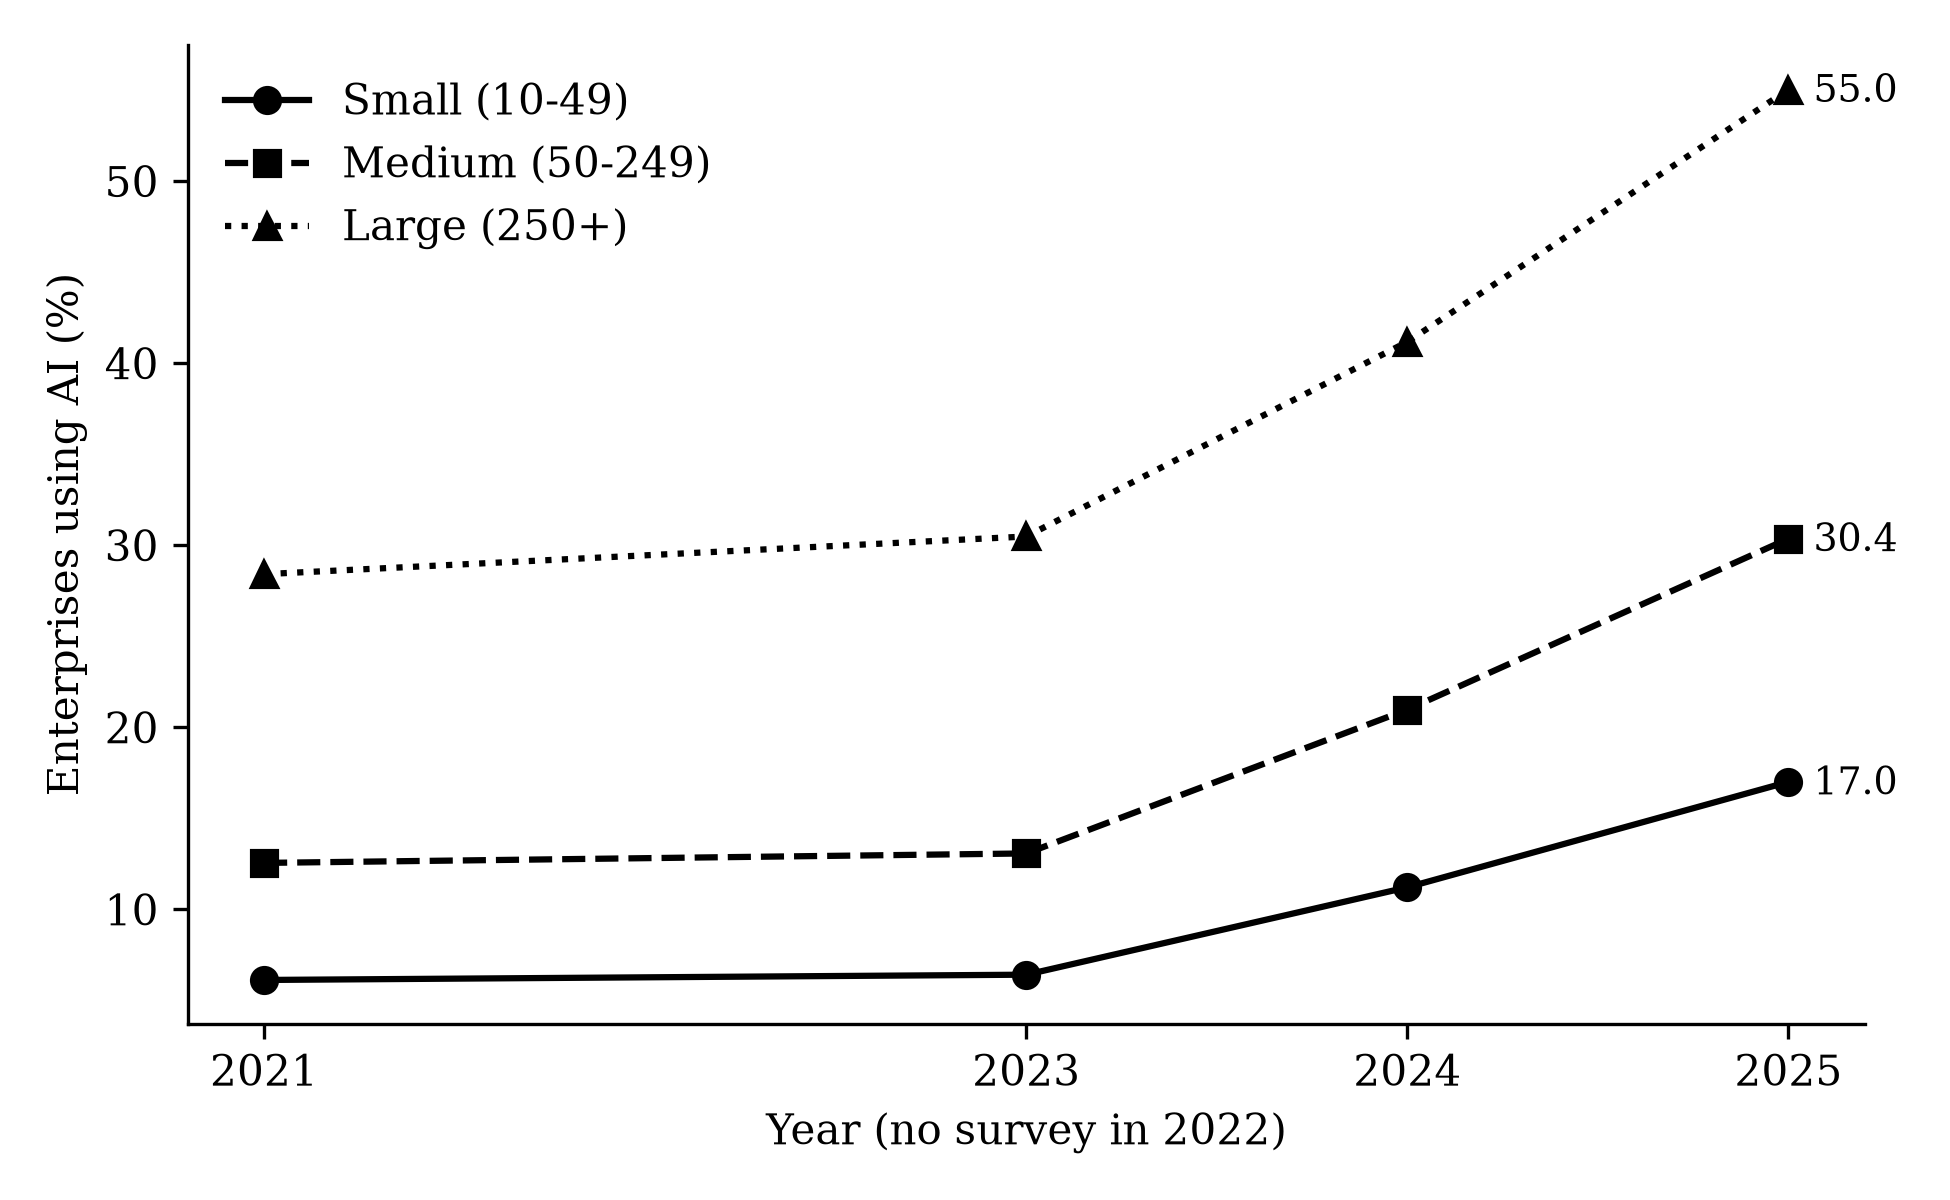
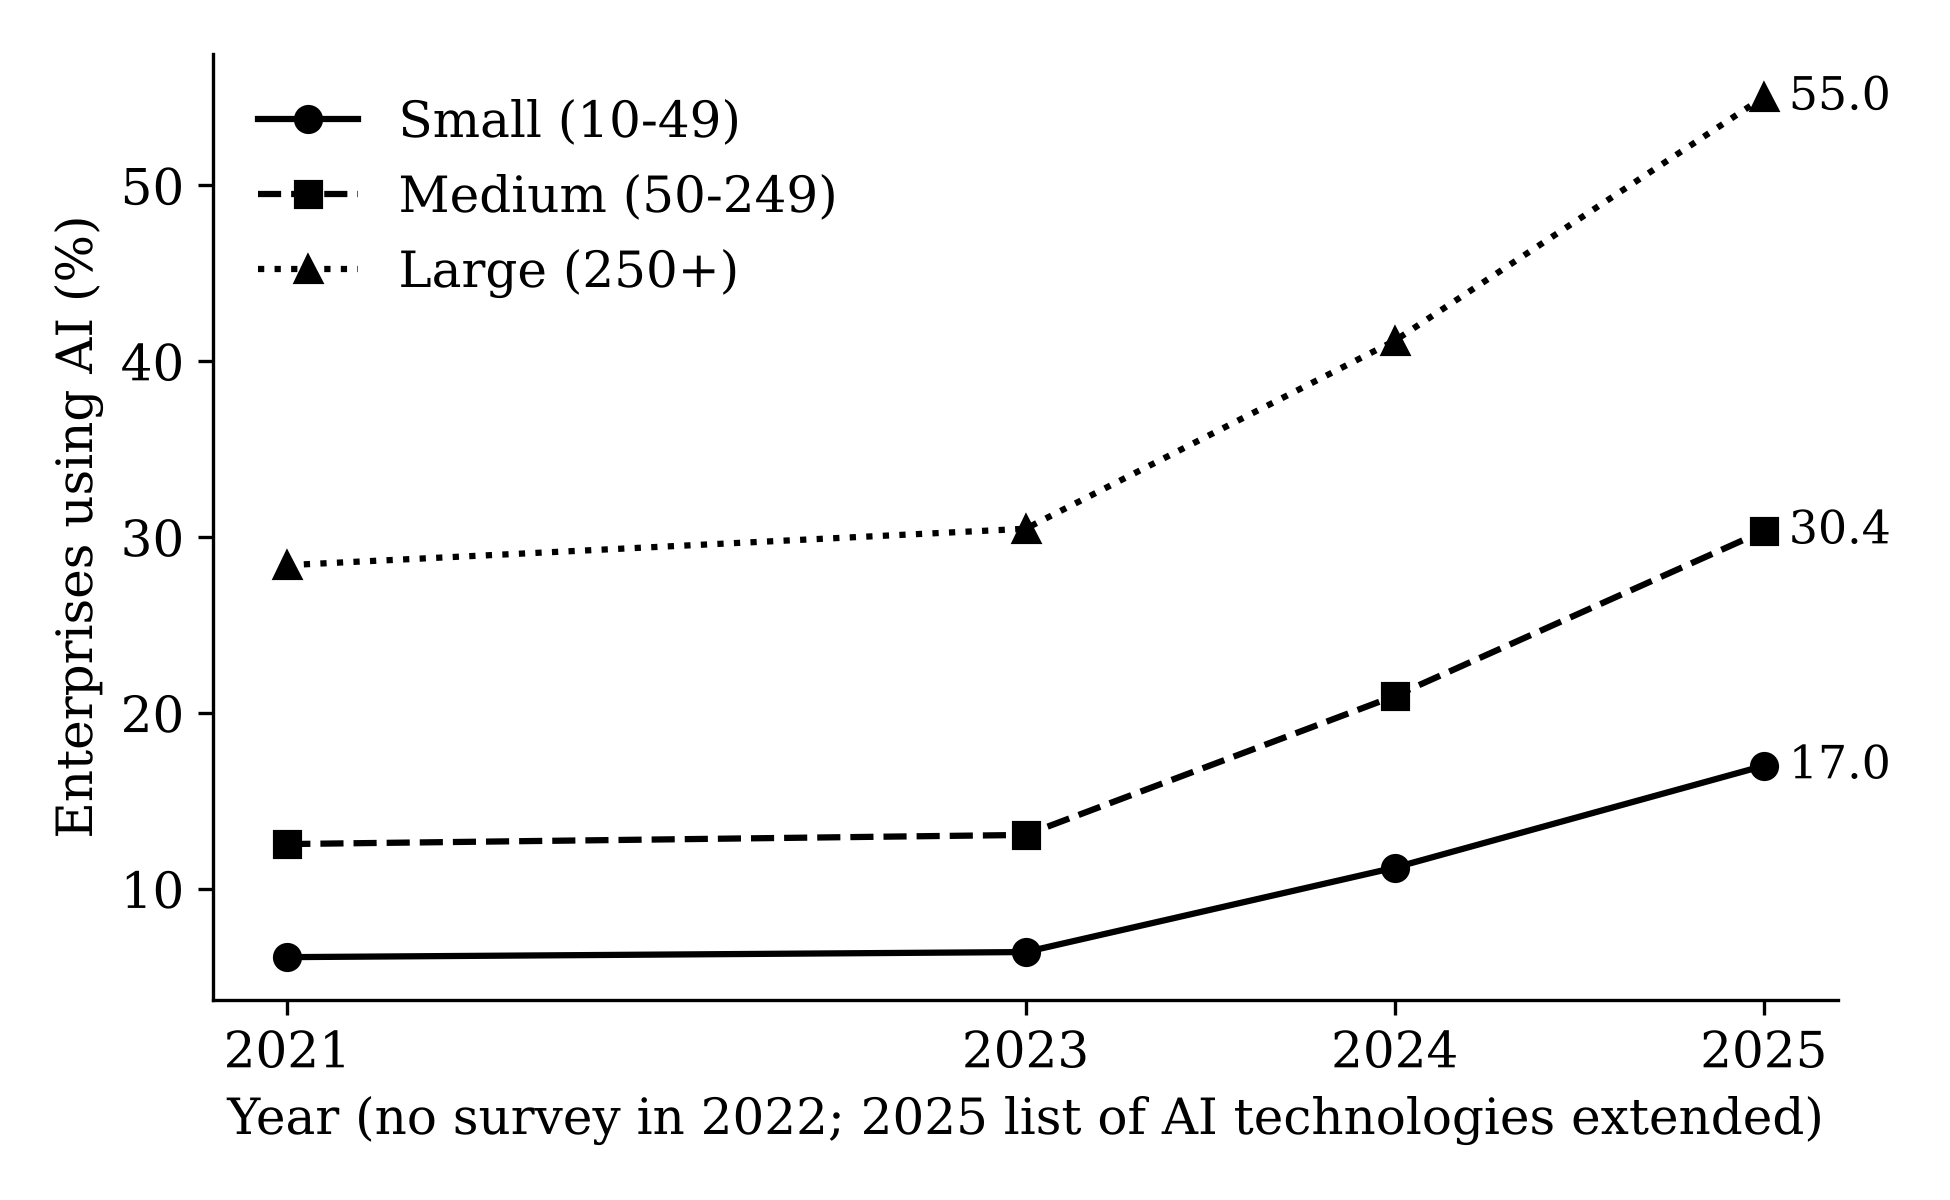
Add robustness check R7 and Portugal singleton check; larger figure fonts; update README

diff --git a/05_analysis/03_inference_checks.py b/05_analysis/03_inference_checks.py
@@ -8,7 +8,9 @@ Not part of the original protocol; reported as post-review checks.
 3. Wild cluster bootstrap p-values (restricted, Webb six-point weights,
    9,999 replications), suited to a small number of clusters.
 4. R3: model without the digital intensity control; R5: without GDP growth;
-   R6: no control variables (country and year fixed effects only).
+   R6: no control variables (country and year fixed effects only);
+   R7 (revision v8): excluding countries with SBS break flags in 2021 (FI, FR, PT, RO).
+6. Singleton check: Portugal large enterprises with and without its single observation.
 5. Leave-one-country-out: range of the AI coefficient when each country is dropped.
 
 Input : ../04_data_clean/panel_clean.csv
@@ -90,6 +92,8 @@ specs = {
     "R3: without digital intensity": (lambda d: d, ["gdp_growth"]),
     "R5: without GDP growth": (lambda d: d, ["dii_basic"]),
     "R6: no control variables": (lambda d: d, []),
+    # added in revision v8 (October 2026): SBS break-in-series flags in 2021
+    "R7: excluding FI, FR, PT and RO": (lambda d: d[~d["geo_code"].isin(["FI", "FR", "PT", "RO"])], ["dii_basic", "gdp_growth"]),
 }
 log("INFERENCE AND SENSITIVITY CHECKS (03_inference_checks.py)")
 log("=" * 70)
@@ -130,6 +134,17 @@ for y, ylab in OUTC.items():
             f"|t|>2.06 in {sig} of {len(coefs)} runs")
 pd.DataFrame(sens, columns=["Outcome", "Size class", "Min AI coefficient", "Max AI coefficient",
                             "Runs with |t| > 2.06", "Runs"]).to_csv(OUT / "table8_sensitivity.csv", index=False)
+
+log("\n--- Singleton check: Portugal, large enterprises (main specification) ---")
+for y, ylab in OUTC.items():
+    sub = p[p["size"] == "GE250"].dropna(subset=[y, "ai_use", "dii_basic", "gdp_growth"])
+    for label, d in [("countries with 2+ observations (as estimated)", sub[sub.groupby("geo_code")["year"].transform("count") >= 2]),
+                     ("including Portugal's single observation", sub)]:
+        X = pd.concat([d[["ai_use", "dii_basic", "gdp_growth"]],
+                       pd.get_dummies(d["geo_code"], dtype=float),
+                       pd.get_dummies(d["year"], drop_first=True, prefix="y", dtype=float)], axis=1).to_numpy(float)
+        b, se, _ = ols_cluster(X, d[y].to_numpy(float), pd.factorize(d["geo_code"])[0])
+        log(f"{ylab:<28} {label:<48} N={len(d)} b={b[0]:.6f} SE={se[0]:.6f}")
 
 log("\nNotes: p(t, G-1) uses the t distribution with G-1 degrees of freedom; "
     "wild bootstrap uses restricted residuals, Webb weights, 9,999 replications, seed 20261010.")

diff --git a/05_analysis/02_analysis.py b/05_analysis/02_analysis.py
@@ -89,16 +89,16 @@ log(f"\nCorrelation across countries, 2025, small-firm vs large-firm adoption: "
     f"{c25['10-49'].corr(c25['GE250']):.2f}")
 
 # ------------------------------------------------------------ 2. FIGURES
-plt.rcParams.update({"font.family": "serif", "font.size": 10})
+plt.rcParams.update({"font.family": "serif", "font.size": 12})
 fig, ax = plt.subplots(figsize=(6.5, 4))
 for s, mk in zip(SIZES, ["o", "s", "^"]):
     ax.plot(eu_ai.index, eu_ai[s], marker=mk, color="black",
             linestyle={"10-49": "-", "50-249": "--", "GE250": ":"}[s], label=SIZE_LABEL[s])
     ax.annotate(f"{eu_ai.loc[2025, s]:.1f}", (2025, eu_ai.loc[2025, s]),
-                textcoords="offset points", xytext=(6, -3), fontsize=9)
+                textcoords="offset points", xytext=(6, -3), fontsize=11)
 ax.set_xticks(eu_ai.index)
 ax.set_ylabel("Enterprises using AI (%)")
-ax.set_xlabel("Year (no survey in 2022)")
+ax.set_xlabel("Year (no survey in 2022; 2025 list of AI technologies extended)")
 ax.legend(frameon=False)
 ax.spines[["top", "right"]].set_visible(False)
 fig.tight_layout()
@@ -114,11 +114,11 @@ ax.set_yticks(y)
 ax.set_yticklabels(cc["country"])
 ax.set_xlabel("Enterprises using AI, 2025 (%)")
 ax.axvline(eu_ai.loc[2025, "10-49"], color="0.6", linestyle="--", linewidth=1)
-ax.text(eu_ai.loc[2025, "10-49"] + 0.5, len(cc) - 0.5, "EU-27 small firms", fontsize=8, color="0.4")
-ax.legend(frameon=False, loc="lower right")
+ax.text(eu_ai.loc[2025, "10-49"] + 0.5, len(cc) - 0.5, "EU-27 small firms", fontsize=10, color="0.4")
+ax.legend(frameon=False, loc="upper center", bbox_to_anchor=(0.5, -0.09), ncol=2)
 ax.spines[["top", "right"]].set_visible(False)
 fig.tight_layout()
-fig.savefig(OUT / "figure2_country_ai_2025.png", dpi=300)
+fig.savefig(OUT / "figure2_country_ai_2025.png", dpi=300, bbox_inches="tight")
 plt.close(fig)
 
 # ------------------------------------------------------------ 3. REGRESSIONS

diff --git a/README.md b/README.md
@@ -3,7 +3,7 @@
 Panel analysis of whether higher AI adoption among small and medium-sized enterprises goes together with higher labour productivity and employment, across the 27 EU member states from 2021 to 2024. Azerbaijan is the policy case.
 
 **Authors:** Tahmina Zaman Mitoshi (University of Warsaw, [ORCID](https://orcid.org/0009-0000-9928-7774)) and Md. Rezaur Rahman
-**Paper:** *AI Adoption, SME Productivity and Employment in the European Union: Evidence and Policy Lessons for Azerbaijan.* 2nd International Conference "New Generation Economy: Challenges and Prospects", Economic Scientific Research Institute (ESRI), Baku, 16 October 2026. Abstract accepted; presented online.
+**Paper:** *AI adoption, SME productivity and employment in the European Union: Evidence and lessons for Azerbaijan.* An abstract of an earlier version was presented online at the 2nd International Conference "Next Generation Economics: Challenges and Perspectives", Economic Scientific Research Institute (ESRI), Baku, 16 October 2026. The full paper is unpublished.
 
 ## Research question
 
@@ -46,7 +46,8 @@ y_it = b · AI_it + g1 · DII_it + g2 · GDPgrowth_it + country FE + year FE + e
 - `y` = log real labour productivity, or log persons employed
 - Estimated separately for small, medium and large firms
 - Standard errors clustered by country. Because there are only 27 clusters, p-values also come from a wild cluster bootstrap (restricted residuals, Webb weights, 9,999 replications, seed 20261010)
-- Six robustness checks: 2021 and 2023 only; excluding France and Sweden (series breaks); without digital intensity; leave one country out; without GDP growth; no controls
+- Seven robustness checks: 2021 and 2023 only; excluding France and Sweden (series breaks); without digital intensity; leave one country out; without GDP growth; no controls; excluding Finland, France, Portugal and Romania (2021 breaks in the business statistics)
+- A check that Portugal's single large-firm observation does not change the large-firm AI coefficients
 
 ## How to run
 
